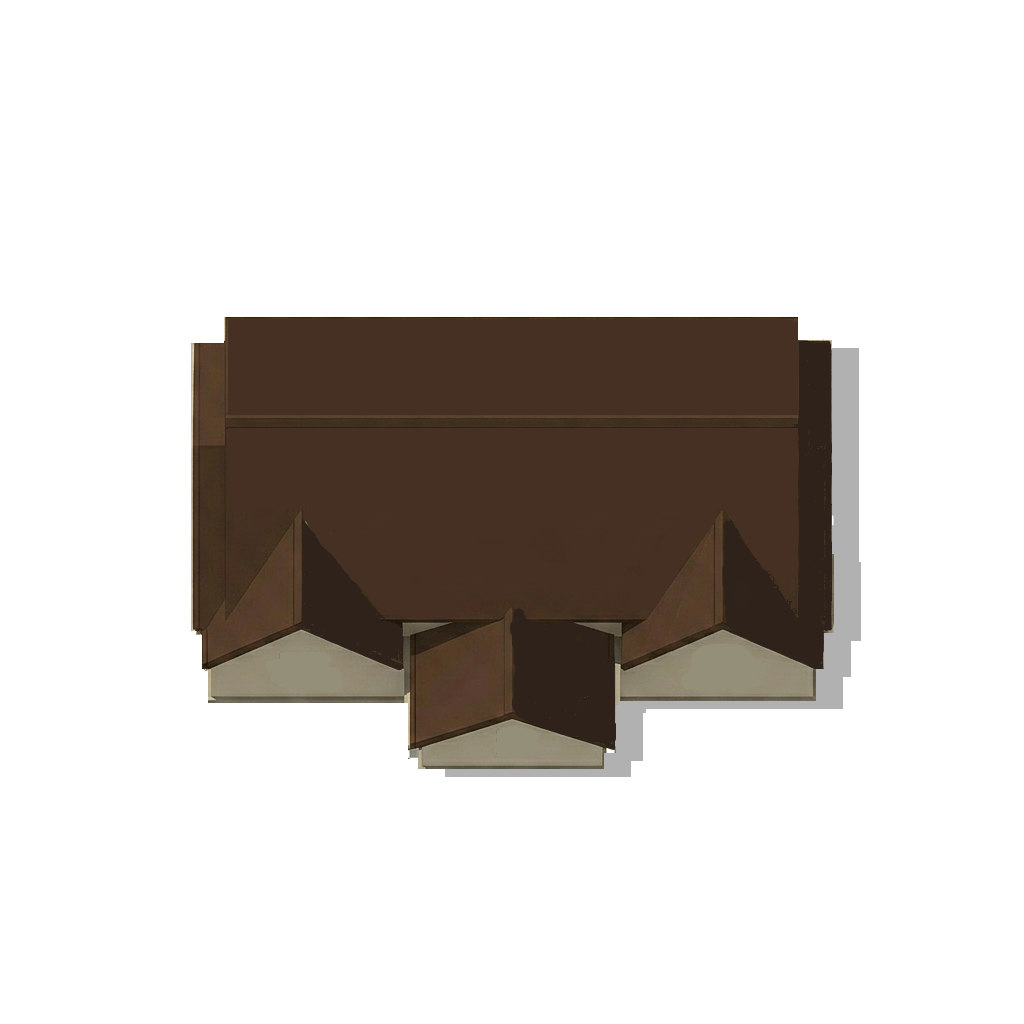
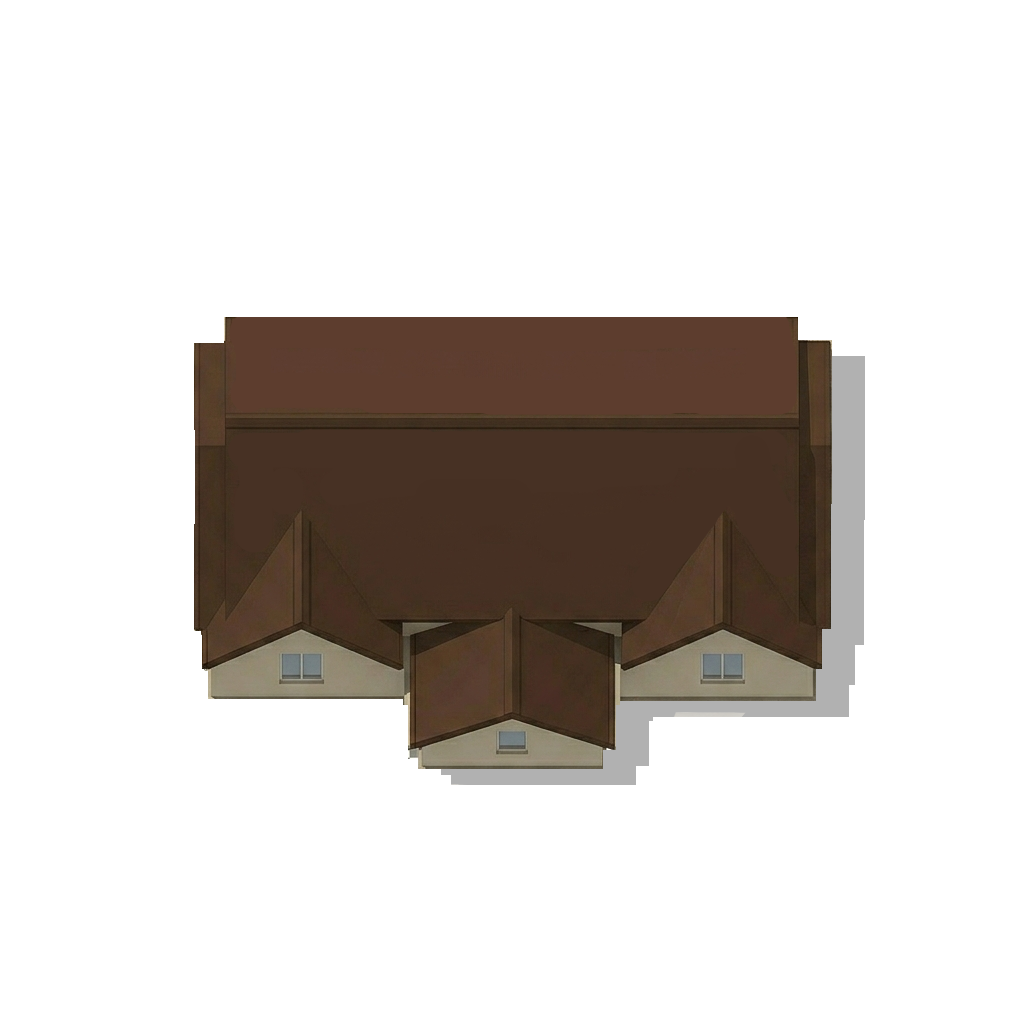
Мда, уровни нарисовал, можешь посмотреть

Changed region(s): [[0.4375, 0.3125, 0.8438, 0.7812], [0.2188, 0.625, 0.375, 0.6875], [0.3125, 0.5625, 0.3438, 0.625]]

diff --git a/Intersection Controller/src/levels.c b/Intersection Controller/src/levels.c
@@ -45,14 +45,67 @@ void loadLevel(int levelId) {
 
         // текстурки
         gameMap[3][5] = TILE_HOUSE;
-        gameMap[3][12] = TILE_HOUSE_BROWN;
-        gameMap[4][8] = TILE_TREE;
-        gameMap[11][18] = TILE_TREE_ORANGE;
-        gameMap[6][18] = TILE_TREE_ORANGE;
-        gameMap[6][2] = TILE_TREE;
-        gameMap[6][25] = TILE_TREE;
-        gameMap[14][13] = TILE_TREE;
-        gameMap[3][20] = TILE_TREE_BLACKGREEN;
+        gameMap[3][26] = TILE_HOUSE_BLACK;
+        gameMap[16][5] = TILE_HOUSE_BROWN;
+        for (int x = 1; x < 10; x++) {
+            gameMap[14][x] = TILE_SIDEWALK;
+        }
+        for (int x = 1; x < 3; x++) {
+            for (int y = 15; y < 18; y++) {
+                gameMap[y][x] = TILE_SIDEWALK;
+            }
+        }
+        for (int x = 8; x < 10; x++) {
+            for (int y = 15; y < 18; y++) {
+                gameMap[y][x] = TILE_SIDEWALK;
+            }
+        }
+        for (int y = 11; y < 18; y++) {
+            gameMap[y][25] = TILE_SIDEWALK;
+        }
+        for (int x = 17; x < 32; x++) {
+            gameMap[16][x] = TILE_SIDEWALK;
+        }
+
+        // сверху
+        gameMap[6][0] = TILE_BUSH_RIGHTUP;
+        for (int y = 5; y > -1; y--) {
+            gameMap[y][0] = TILE_BUSH_VERRIGHT;
+        }
+        for (int x = 1; x < 3; x++) {
+            gameMap[6][x] = TILE_BUSH_HOR;
+        }
+        for (int x = 9; x < 16; x++) {
+            gameMap[6][x] = TILE_BUSH_HOR;
+        }
+        gameMap[6][16] = TILE_BUSH_RIGHTUP;
+        for (int y = 5; y > -1; y--) {
+            gameMap[y][16] = TILE_BUSH_VERRIGHT;
+        }
+        for (int x = 17; x < 24; x++) {
+            gameMap[6][x] = TILE_BUSH_HOR;
+        }
+        for (int x = 26; x < 32; x++) {
+            gameMap[6][x] = TILE_BUSH_HOR;
+        }
+        // слева снизу
+        for (int x = 0; x < 12; x++) {
+            gameMap[11][x] = TILE_BUSH_HOR;
+        }
+        gameMap[11][12] = TILE_BUSH_RIGHTDOWN;
+        for (int y = 12; y < 18; y++) {
+            gameMap[y][12] = TILE_BUSH_VERRIGHT;
+        }
+
+        gameMap[4][22] = TILE_TREE_ORANGE;
+        gameMap[0][19] = TILE_TREE_GREEN;
+        gameMap[1][10] = TILE_TREE_BLACKGREEN;
+        gameMap[4][13] = TILE_TREE;
+        gameMap[13][21] = TILE_HOUSE_BLACK2;
+        gameMap[11][27] = TILE_TREE;
+        gameMap[10][1] = TILE_TREE_GREEN;
+        gameMap[17][17] = TILE_TREE_ORANGE;
+        gameMap[16][1] = TILE_TREE_BLACKGREEN;
     }
     else if (levelId == 2) { //medium
         // Создаем одну горизонтальную дорогу
@@ -83,6 +136,36 @@ void loadLevel(int levelId) {
         gameMap[9][0] = TILE_SPAWN; // Машины слева направо
         gameMap[17][16] = TILE_SPAWN; // Машины снизу вверх
         gameMap[0][15] = TILE_SPAWN; // Машины сверху вниз
+
+        // Дома
+        gameMap[3][5] = TILE_HOUSE_BROWN;
+        gameMap[3][25] = TILE_HOUSE_BLACK;
+        gameMap[15][5] = TILE_HOUSE;
+        gameMap[15][25] = TILE_HOUSE_BLACK2;
+
+        // Кусты вдоль горизонтального тротуара (сверху)
+        for (int x = 0; x < 12; x++) gameMap[6][x] = TILE_BUSH_HOR;
+        gameMap[6][12] = TILE_BUSH_RIGHTUP;
+        for (int x = 19; x < 32; x++) gameMap[6][x] = TILE_BUSH_HOR;
+
+        // Кусты вдоль горизонтального тротуара (снизу)
+        for (int x = 0; x < 12; x++) gameMap[11][x] = TILE_BUSH_HOR;
+        gameMap[11][12] = TILE_BUSH_RIGHTDOWN;
+        for (int x = 19; x < 32; x++) gameMap[11][x] = TILE_BUSH_HOR;
+
+        // Кусты вдоль вертикального тротуара
+        for (int y = 5; y > -1; y--) gameMap[y][12] = TILE_BUSH_VERRIGHT;
+        for (int y = 12; y < 18; y++) gameMap[y][12] = TILE_BUSH_VERRIGHT;
+
+        // Деревья (раскиданы группами)
+        gameMap[0][1] = TILE_TREE_GREEN;
+        gameMap[0][14] = TILE_TREE_ORANGE;
+        gameMap[6][13] = TILE_TREE_BLACKGREEN;
+        gameMap[13][10] = TILE_TREE_RED;
+        gameMap[17][0] = TILE_TREE_RED;
+        gameMap[15][30] = TILE_TREE_BLACKGREEN;
+        gameMap[4][19] = TILE_TREE;
+        gameMap[13][19] = TILE_TREE_ORANGE;
     }
     else if (levelId == 3) { // hard
         // 1. Главная горизонтальная дорога (на всю ширину)
@@ -134,5 +217,43 @@ void loadLevel(int levelId) {
         gameMap[8][31] = TILE_SPAWN;     // Въезд справа
         gameMap[17][11] = TILE_SPAWN;    // Въезд снизу (только для левой дороги)
         gameMap[0][22] = TILE_SPAWN;     // Въезд сверху (для обеих дорог)
+
+        gameMap[1][2] = TILE_HOUSE_BROWN;
+
+        // Слева снизу: Обычный дом
+        gameMap[15][2] = TILE_HOUSE;
+
+        // Справа снизу
+        gameMap[15][17] = TILE_HOUSE_BLACK;
+        gameMap[15][28] = TILE_HOUSE_BLACK2;
+
+        // Сверху по центру
+        gameMap[1][14] = TILE_TREE_GREEN;
+        gameMap[4][18] = TILE_TREE_ORANGE;
+
+        gameMap[6][31] = TILE_TREE_GREEN;
+
+        // Справа сверху
+        gameMap[1][28] = TILE_TREE_RED;
+
+        for (int x = 0; x < 7; x++) {
+            gameMap[5][x] = TILE_BUSH_HOR;
+        }
+        gameMap[5][7] = TILE_BUSH_RIGHTUP;
+        for (int y = 4; y > -1; y--) {
+            gameMap[y][7] = TILE_BUSH_VERRIGHT;
+        }
+        gameMap[5][8] = TILE_TREE;
+
+        for (int x = 14; x < 22; x++) {
+            gameMap[11][x] = TILE_BUSH_HOR;
+        }
+        gameMap[11][22] = TILE_BUSH_LEFTUP;
+        for (int y = 12; y < 18; y++) {
+            gameMap[y][22] = TILE_BUSH_VERRIGHT;
+        }
+        for (int x = 23; x < 32; x++) {
+            gameMap[11][x] = TILE_BUSH_HOR;
+        }
     }
 }

diff --git a/Intersection Controller/src/render.c b/Intersection Controller/src/render.c
@@ -202,7 +202,9 @@ static void drawTile(int x, int y, int type) {
 
     int offset = (currentLevel == 0) ? 1 : 0;
 
-    if (type == TILE_HOUSE || type == TILE_HOUSE_BROWN || type == TILE_TREE || type == TILE_TREE_ORANGE || type == TILE_TREE_GREEN || type == TILE_TREE_RED || type == TILE_TREE_BLACKGREEN) {
+    if (type == TILE_HOUSE || type == TILE_HOUSE_BROWN || type == TILE_HOUSE_BLACK || type == TILE_HOUSE_BLACK2
+        || type == TILE_TREE || type == TILE_TREE_ORANGE || type == TILE_TREE_GREEN || type == TILE_TREE_RED || type == TILE_TREE_BLACKGREEN
+        || type == TILE_BUSH_HOR || type == TILE_BUSH_VER || type == TILE_BUSH_VERRIGHT || type == TILE_BUSH_LEFTUP || type == TILE_BUSH_RIGHTUP || type == TILE_BUSH_RIGHTDOWN) {
         
         GLuint currentTex;
         float multiplier;
@@ -215,6 +217,14 @@ static void drawTile(int x, int y, int type) {
         case TILE_HOUSE_BROWN:
             multiplier = 10.0f;
             currentTex = houseBrownTex;
+            break;
+        case TILE_HOUSE_BLACK:
+            currentTex = houseBlackTex;
+            multiplier = 12.0f;
+            break;
+        case TILE_HOUSE_BLACK2:
+            currentTex = houseBlack2Tex;
+            multiplier = 13.0f;
             break;
         case TILE_TREE:
             currentTex = treeTex;
@@ -230,11 +240,35 @@ static void drawTile(int x, int y, int type) {
             break;
         case TILE_TREE_RED:
             currentTex = treeRedTex;
-            multiplier = 3.0f;
+            multiplier = 4.0f;
             break;
         case TILE_TREE_BLACKGREEN:
             currentTex = treeBlackgreenTex;
-            multiplier = 2.0f;
+            multiplier = 4.0f;
+            break;
+        case TILE_BUSH_HOR:
+            currentTex = bushHorTex;
+            multiplier = 1.05f;
+            break;
+        case TILE_BUSH_VER:
+            currentTex = bushVerTex;
+            multiplier = 1.05f;
+            break;
+        case TILE_BUSH_VERRIGHT:
+            currentTex = bushVerrightTex;
+            multiplier = 1.05f;
+            break;
+        case TILE_BUSH_LEFTUP:
+            currentTex = bushLeftupTex;
+            multiplier = 1.05f;
+            break;
+        case TILE_BUSH_RIGHTUP:
+            currentTex = bushRightupTex;
+            multiplier = 1.05f;
+            break;
+        case TILE_BUSH_RIGHTDOWN:
+            currentTex = bushRightdownTex;
+            multiplier = 1.05f;
             break;
         default:
             currentTex = houseTex;
@@ -512,7 +546,9 @@ void render(void) {
         for (int y = 0; y < MAP_HEIGHT; y++) {
             for (int x = 0; x < MAP_WIDTH; x++) {
                 int tile = gameMap[y][x];
-                if (tile == TILE_HOUSE || tile == TILE_HOUSE_BROWN || tile == TILE_TREE || tile == TILE_TREE_ORANGE || tile == TILE_TREE_GREEN || tile == TILE_TREE_RED || tile == TILE_TREE_BLACKGREEN) {
+                if (tile == TILE_HOUSE || tile == TILE_HOUSE_BROWN  || tile == TILE_HOUSE_BLACK || tile == TILE_HOUSE_BLACK2
+                    || tile == TILE_TREE || tile == TILE_TREE_ORANGE || tile == TILE_TREE_GREEN || tile == TILE_TREE_RED || tile == TILE_TREE_BLACKGREEN
+                    || tile == TILE_BUSH_HOR || tile == TILE_BUSH_VER || tile == TILE_BUSH_VERRIGHT || tile == TILE_BUSH_LEFTUP || tile == TILE_BUSH_RIGHTUP || tile == TILE_BUSH_RIGHTDOWN) {
                     drawTile(x, y, TILE_GRASS);
                 }
                 else {
@@ -525,12 +561,22 @@ void render(void) {
         for (int i = 0; i < MAX_VEHICLES; i++) {
             if (vehicles[i].active) drawVehicle(&vehicles[i]);
         }
-
-        // ТЕкстурки
+        // кусты
         for (int y = 0; y < MAP_HEIGHT; y++) {
             for (int x = 0; x < MAP_WIDTH; x++) {
                 int tile = gameMap[y][x];
-                if (tile == TILE_HOUSE || tile == TILE_HOUSE_BROWN || tile == TILE_TREE || tile == TILE_TREE_ORANGE || tile == TILE_TREE_GREEN || tile == TILE_TREE_RED || tile == TILE_TREE_BLACKGREEN) {
+                if (tile == TILE_BUSH_HOR || tile == TILE_BUSH_VER || tile == TILE_BUSH_VERRIGHT || tile == TILE_BUSH_LEFTUP || tile == TILE_BUSH_RIGHTUP || tile == TILE_BUSH_RIGHTDOWN) {
+                    drawTile(x, y, tile);
+                }
+            }
+        }
+
+        // Тeкстурки
+        for (int y = 0; y < MAP_HEIGHT; y++) {
+            for (int x = 0; x < MAP_WIDTH; x++) {
+                int tile = gameMap[y][x];
+                if (tile == TILE_HOUSE || tile == TILE_HOUSE_BROWN || tile == TILE_HOUSE_BLACK || tile == TILE_HOUSE_BLACK2
+                    || tile == TILE_TREE || tile == TILE_TREE_ORANGE || tile == TILE_TREE_GREEN || tile == TILE_TREE_RED || tile == TILE_TREE_BLACKGREEN) {
                     drawTile(x, y, tile);
                 }
             }

diff --git a/Intersection Controller/src/main.c b/Intersection Controller/src/main.c
@@ -47,12 +47,21 @@ GLuint carTex = 0;
 
 GLuint houseTex = 0;
 GLuint houseBrownTex = 0;
+GLuint houseBlackTex = 0;
+GLuint houseBlack2Tex = 0;
 
 GLuint treeTex = 0;
 GLuint treeOrangeTex = 0;
 GLuint treeGreenTex = 0;
 GLuint treeRedTex = 0;
 GLuint treeBlackgreenTex = 0;
+
+GLuint bushHorTex = 0;
+GLuint bushVerTex = 0;
+GLuint bushVerrightTex = 0;
+GLuint bushLeftupTex = 0;
+GLuint bushRightupTex = 0;
+GLuint bushRightdownTex = 0;
 
 // Карта
 int gameMap[MAP_HEIGHT][MAP_WIDTH] = { 0 };
@@ -153,12 +162,21 @@ int main(int argc, char** argv) {
 
     houseTex = loadTexture("assets/house.png");
     houseBrownTex = loadTexture("assets/house_brown.png");
+    houseBlackTex = loadTexture("assets/house_black.png");
+    houseBlack2Tex = loadTexture("assets/house_black2.png");
 
     treeTex = loadTexture("assets/tree.png");
     treeOrangeTex = loadTexture("assets/tree_orange.png");
     treeGreenTex = loadTexture("assets/tree_green.png");
     treeRedTex = loadTexture("assets/tree_red.png");
     treeBlackgreenTex = loadTexture("assets/tree_blackgreen.png");
+
+    bushHorTex = loadTexture("assets/bush_hor.png");
+    bushVerTex = loadTexture("assets/bush_ver.png");
+    bushVerrightTex = loadTexture("assets/bush_verright.png");
+    bushLeftupTex = loadTexture("assets/bush_leftup.png");
+    bushRightupTex = loadTexture("assets/bush_rightup.png");
+    bushRightdownTex = loadTexture("assets/bush_rightdown.png");
 
     if (carTex == 0) printf("Error: failed to load car texture\n");
 

diff --git a/Intersection Controller/header/common.h b/Intersection Controller/header/common.h
@@ -34,6 +34,8 @@ extern GLuint carTex;             // текстура автомобиля
 
 extern GLuint houseTex;           // текстура дома
 extern GLuint houseBrownTex;
+extern GLuint houseBlackTex;
+extern GLuint houseBlack2Tex;
 
 
 extern GLuint treeTex;            // текстура дерева
@@ -41,6 +43,13 @@ extern GLuint treeOrangeTex;
 extern GLuint treeGreenTex;
 extern GLuint treeRedTex;
 extern GLuint treeBlackgreenTex;
+
+extern GLuint bushHorTex;         // изгородь
+extern GLuint bushVerTex;
+extern GLuint bushVerrightTex;
+extern GLuint bushLeftupTex;
+extern GLuint bushRightupTex;
+extern GLuint bushRightdownTex;
 
 // Глобальные переменные
 extern GameState currentState;
@@ -91,11 +100,19 @@ typedef enum {
     TILE_SPAWN,
     TILE_HOUSE,
     TILE_HOUSE_BROWN,
+    TILE_HOUSE_BLACK,
+    TILE_HOUSE_BLACK2,
     TILE_TREE,
     TILE_TREE_ORANGE,
     TILE_TREE_GREEN,
     TILE_TREE_RED,
     TILE_TREE_BLACKGREEN,
+    TILE_BUSH_HOR,
+    TILE_BUSH_VER,
+    TILE_BUSH_VERRIGHT,
+    TILE_BUSH_LEFTUP,
+    TILE_BUSH_RIGHTUP,
+    TILE_BUSH_RIGHTDOWN,
     TILE_SIDEWALK
 } TileType;
 